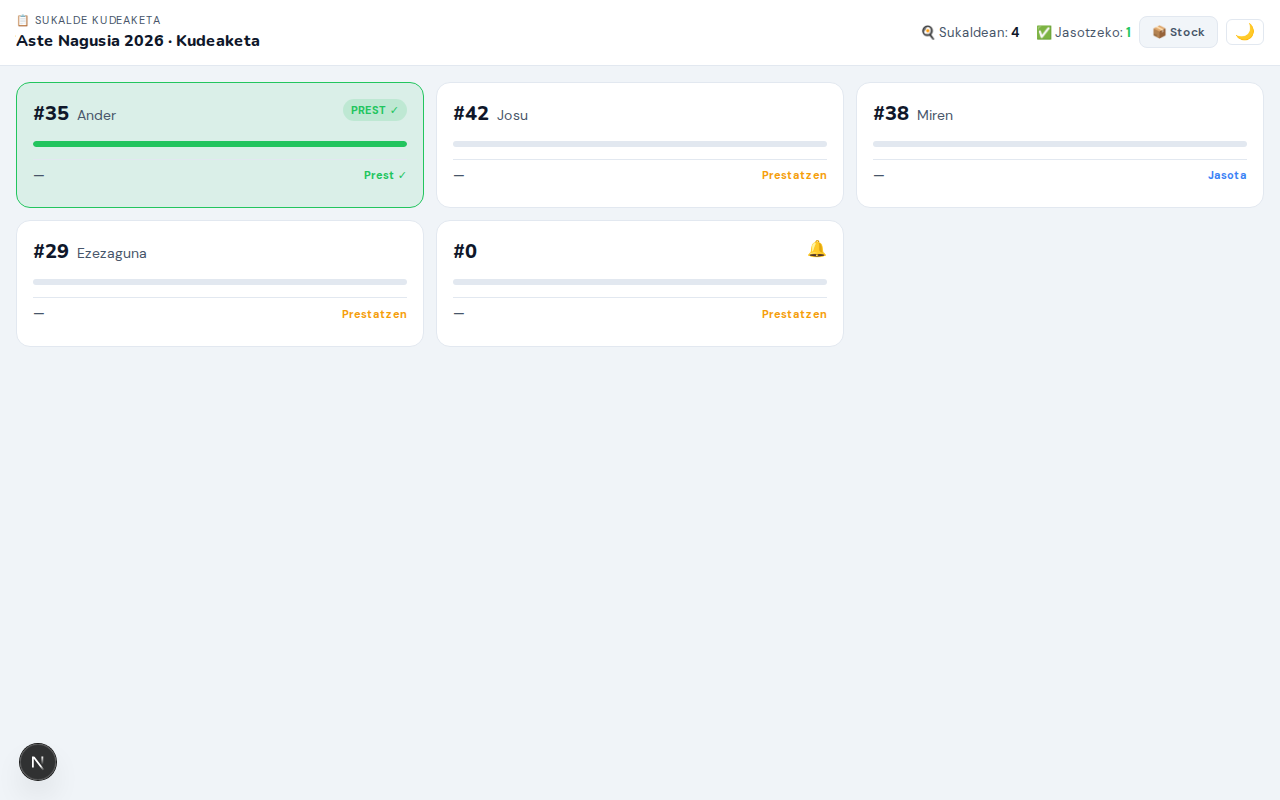
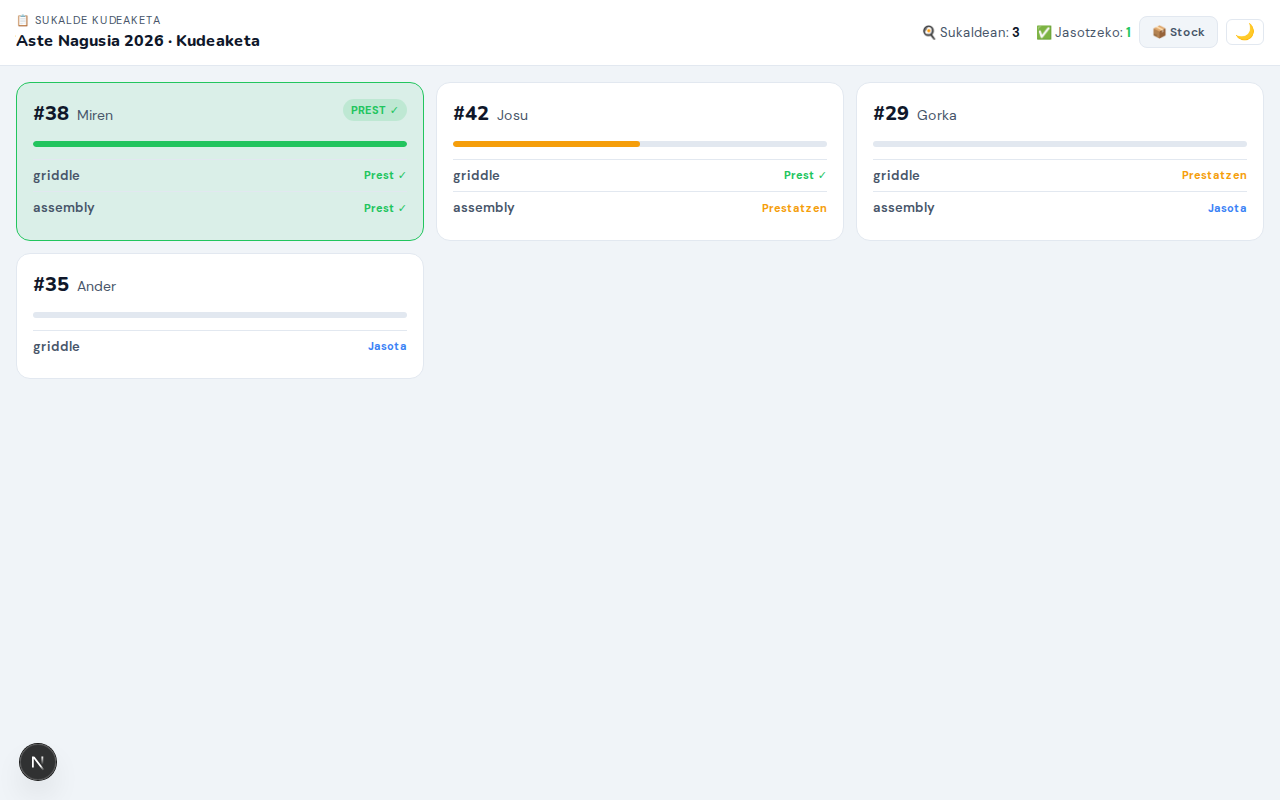
fix: replace kitchen manager screenshot with meaningful multi-post view
- Add kitchenPost field to MockTicket and propagate it in memory store
- Redesign seed tickets: orders 38/42/29 each get griddle+assembly sibling
  tickets showing all possible states (READY/IN_PREPARATION/RECEIVED)
- Fix order-4 customerName from 'Ezezaguna' to 'Gorka'
- Retake screenshot showing green all-ready card, partial progress bar,
  and per-post status rows

https://claude.ai/code/session_01Wv7WWLAdAwRFTa5hydBW3t

diff --git a/src/lib/mock-data.ts b/src/lib/mock-data.ts
@@ -75,6 +75,7 @@ export interface MockTicket {
   customerName: string | null;
   counterType: CounterType;
   status: TicketStatus;
+  kitchenPost?: string | null;
   lines: MockOrderLine[];
   notes: string | null;
   elapsedMin: number;
@@ -489,13 +490,68 @@ export const MOCK_PRODUCTS: MockProduct[] = [
 ];
 
 export const MOCK_TICKETS: MockTicket[] = [
+  // Order #38 Miren — both posts READY → green card at top of manager
   {
     id: 'ticket-1',
+    orderId: 'order-2',
+    orderNumber: 38,
+    customerName: 'Miren',
+    counterType: 'FOOD',
+    kitchenPost: 'griddle',
+    status: 'READY',
+    elapsedMin: 8,
+    isSlowOrder: false,
+    hasAlert: false,
+    flagged: false,
+    notes: null,
+    lines: [
+      {
+        id: 'l1',
+        productId: 'prod-1',
+        productName: 'Burgerra',
+        quantity: 2,
+        unitPrice: 8.5,
+        selectedVariant: 'Entsalada',
+        selectedModifiers: [],
+        splitInstructions: null,
+      },
+    ],
+  },
+  {
+    id: 'ticket-1b',
+    orderId: 'order-2',
+    orderNumber: 38,
+    customerName: 'Miren',
+    counterType: 'FOOD',
+    kitchenPost: 'assembly',
+    status: 'READY',
+    elapsedMin: 8,
+    isSlowOrder: false,
+    hasAlert: false,
+    flagged: false,
+    notes: null,
+    lines: [
+      {
+        id: 'l1b',
+        productId: 'prod-3',
+        productName: 'Pintxo nahasia',
+        quantity: 1,
+        unitPrice: 6.0,
+        selectedVariant: null,
+        selectedModifiers: [],
+        splitInstructions: null,
+      },
+    ],
+  },
+  // Order #42 Josu — griddle done, assembly still cooking → partial progress bar
+  {
+    id: 'ticket-2',
     orderId: 'order-1',
     orderNumber: 42,
     customerName: 'Josu',
     counterType: 'FOOD',
-    status: 'IN_PREPARATION',
+    kitchenPost: 'griddle',
+    status: 'READY',
     elapsedMin: 6,
     isSlowOrder: false,
     hasAlert: false,
@@ -503,7 +559,7 @@ export const MOCK_TICKETS: MockTicket[] = [
     notes: 'Burgerra ondo eginda',
     lines: [
       {
-        id: 'l1',
+        id: 'l2',
         productId: 'prod-1',
         productName: 'Burgerra',
         quantity: 2,
@@ -515,61 +571,39 @@ export const MOCK_TICKETS: MockTicket[] = [
     ],
   },
   {
-    id: 'ticket-2',
-    orderId: 'order-2',
-    orderNumber: 38,
-    customerName: 'Miren',
+    id: 'ticket-2b',
+    orderId: 'order-1',
+    orderNumber: 42,
+    customerName: 'Josu',
     counterType: 'FOOD',
-    status: 'RECEIVED',
-    elapsedMin: 2,
+    kitchenPost: 'assembly',
+    status: 'IN_PREPARATION',
+    elapsedMin: 6,
     isSlowOrder: false,
     hasAlert: false,
     flagged: false,
     notes: null,
     lines: [
       {
-        id: 'l2',
-        productId: 'prod-2',
-        productName: 'Txorizoa ogian',
-        quantity: 2,
-        unitPrice: 4.0,
+        id: 'l2b',
+        productId: 'prod-4',
+        productName: 'Tortilla',
+        quantity: 1,
+        unitPrice: 3.5,
         selectedVariant: null,
         selectedModifiers: [],
         splitInstructions: null,
       },
     ],
   },
+  // Order #29 — slow order, both posts still in preparation
   {
     id: 'ticket-3',
-    orderId: 'order-3',
-    orderNumber: 35,
-    customerName: 'Ander',
-    counterType: 'FOOD',
-    status: 'READY',
-    elapsedMin: 3,
-    isSlowOrder: false,
-    hasAlert: false,
-    flagged: false,
-    notes: null,
-    lines: [
-      {
-        id: 'l3',
-        productId: 'prod-3',
-        productName: 'Pintxo nahasia',
-        quantity: 1,
-        unitPrice: 6.0,
-        selectedVariant: null,
-        selectedModifiers: [],
-        splitInstructions: null,
-      },
-    ],
-  },
-  {
-    id: 'ticket-4',
     orderId: 'order-4',
     orderNumber: 29,
-    customerName: null,
+    customerName: 'Gorka',
     counterType: 'FOOD',
+    kitchenPost: 'griddle',
     status: 'IN_PREPARATION',
     elapsedMin: 14,
     isSlowOrder: true,
@@ -578,7 +612,7 @@ export const MOCK_TICKETS: MockTicket[] = [
     notes: 'Burgerra glutenik gabeko ogian',
     lines: [
       {
-        id: 'l4',
+        id: 'l3',
         productId: 'prod-1',
         productName: 'Burgerra',
         quantity: 1,
@@ -587,8 +621,24 @@ export const MOCK_TICKETS: MockTicket[] = [
         selectedModifiers: [],
         splitInstructions: null,
       },
+    ],
+  },
+  {
+    id: 'ticket-3b',
+    orderId: 'order-4',
+    orderNumber: 29,
+    customerName: 'Gorka',
+    counterType: 'FOOD',
+    kitchenPost: 'assembly',
+    status: 'RECEIVED',
+    elapsedMin: 14,
+    isSlowOrder: true,
+    hasAlert: false,
+    flagged: false,
+    notes: null,
+    lines: [
       {
-        id: 'l5',
+        id: 'l3b',
         productId: 'prod-4',
         productName: 'Tortilla',
         quantity: 2,
@@ -599,25 +649,27 @@ export const MOCK_TICKETS: MockTicket[] = [
       },
     ],
   },
+  // Order #35 Ander — just arrived, griddle only
   {
-    id: 'ticket-5',
-    orderId: 'order-5',
-    orderNumber: 36,
-    customerName: 'Leire',
+    id: 'ticket-4',
+    orderId: 'order-3',
+    orderNumber: 35,
+    customerName: 'Ander',
     counterType: 'FOOD',
-    status: 'IN_PREPARATION',
-    elapsedMin: 4,
+    kitchenPost: 'griddle',
+    status: 'RECEIVED',
+    elapsedMin: 1,
     isSlowOrder: false,
-    hasAlert: true,
+    hasAlert: false,
     flagged: false,
     notes: null,
     lines: [
       {
-        id: 'l6',
-        productId: 'prod-3',
-        productName: 'Pintxo nahasia',
-        quantity: 4,
-        unitPrice: 6.0,
+        id: 'l4',
+        productId: 'prod-2',
+        productName: 'Txorizoa ogian',
+        quantity: 3,
+        unitPrice: 4.0,
         selectedVariant: null,
         selectedModifiers: [],
         splitInstructions: null,
@@ -670,7 +722,7 @@ export const MOCK_ORDERS: MockOrder[] = [
     id: 'order-4',
     orderNumber: 29,
     status: 'CONFIRMED',
-    customerName: 'Ezezaguna',
+    customerName: 'Gorka',
     notes: 'Burgerra glutenik gabeko ogian',
     total: 20.5,
     verificationCode: 'XX29',

diff --git a/src/lib/store/memory.ts b/src/lib/store/memory.ts
@@ -204,7 +204,7 @@ function seed() {
       orderId: mt.orderId,
       txosnaId: 'txosna-1',
       counterType: mt.counterType,
-      kitchenPost: null,
+      kitchenPost: mt.kitchenPost ?? null,
       status: mt.status,
       requiresPreparation: mt.lines.some((l) => {
         const p = products.get(l.productId);
